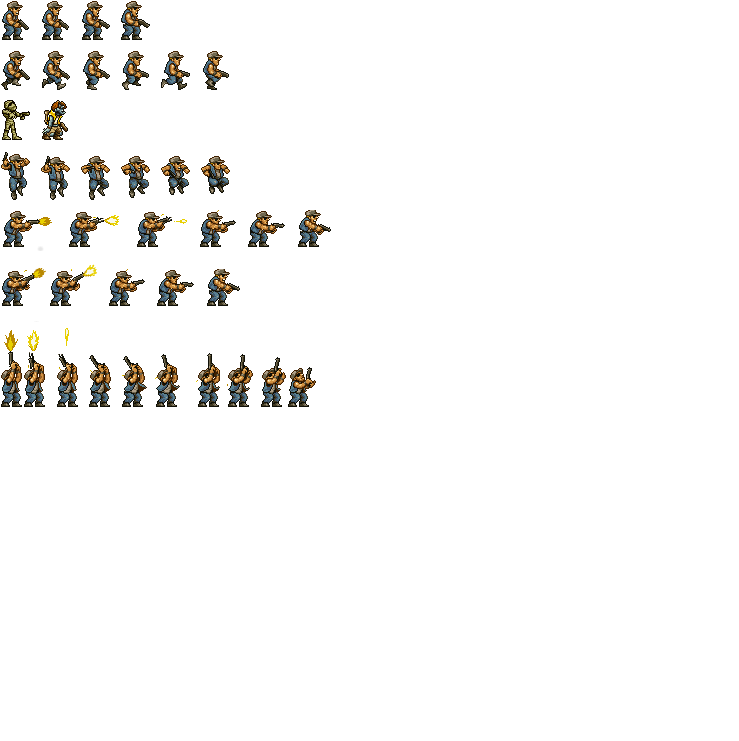
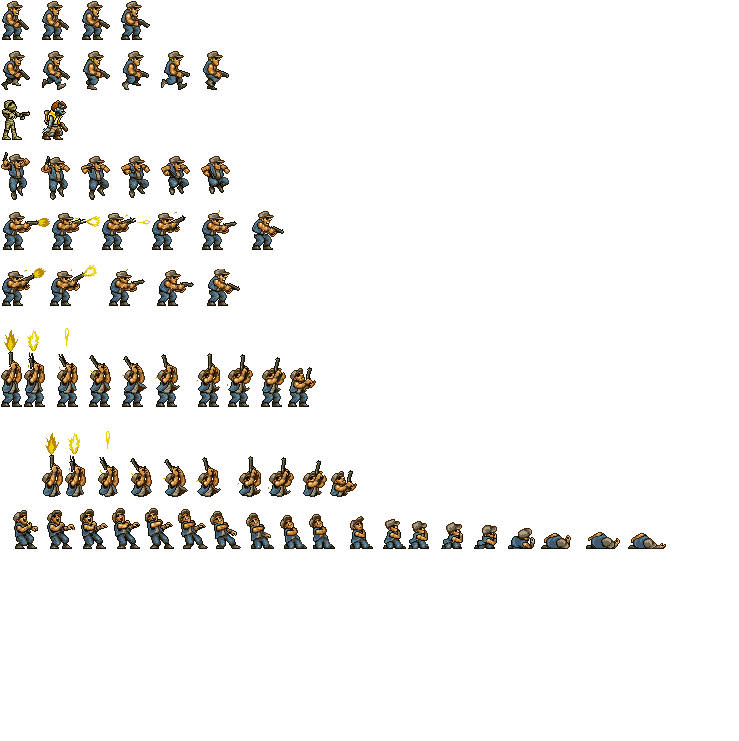
dispara el forro

Changed region(s): [[0.0, 0.5897, 0.9026, 0.7449], [0.0, 0.2794, 0.3735, 0.3414], [0.4046, 0.2794, 0.4357, 0.3414]]

diff --git a/Cliente/LTexture.cpp b/Cliente/LTexture.cpp
@@ -33,6 +33,12 @@ void LTexture::render(SDL_Renderer *window, SDL_Texture *mTexture, int cameraX, 
 
     //pasar escala x xml
 	drawingRect.w = player[spX][spY].w + escala;
+	if(player[spX][spY].w == 50){
+		drawingRect.w += 30;
+		if(flipType != SDL_FLIP_NONE){
+			drawingRect.x -= 50;
+		}
+	}
 	drawingRect.h = player[spX][spY].h + escala;
 
 	SDL_RenderCopyEx( window, mTexture, &player[spX][spY], &drawingRect, 0, NULL, flipType );
@@ -133,26 +139,24 @@ void LTexture::inicializarTexture(SDL_Renderer* window, char* text){
 	player[5][2].w=30; player[5][2].h=50;
 
 	//Disparando
-	player[6][0].x=0; player[6][0].y=208;
-	player[6][0].w=40; player[6][0].h=40;
-
-	/*
-	//Disparando
 	player[0][3].x=0; player[0][3].y=210;
 	player[0][3].w=50; player[0][3].h=40;
 
-	player[0][3].x=50; player[0][3].y=210;
-	player[0][3].w=50; player[0][3].h=40;
+	player[1][3].x=50; player[1][3].y=210;
+	player[1][3].w=50; player[1][3].h=40;
 
-	player[0][3].x=100; player[0][3].y=210;
-	player[0][3].w=50; player[0][3].h=40;
+	player[2][3].x=100; player[2][3].y=210;
+	player[2][3].w=50; player[2][3].h=40;
 
-	player[0][3].x=150; player[0][3].y=210;
-	player[0][3].w=50; player[0][3].h=40;
+	player[3][3].x=150; player[3][3].y=210;
+	player[3][3].w=50; player[3][3].h=40;
 
-	player[0][3].x=200; player[0][3].y=210;
-	player[0][3].w=50; player[0][3].h=40;
-	*/
+	player[4][3].x=200; player[4][3].y=210;
+	player[4][3].w=50; player[4][3].h=40;
+
+	player[5][3].x=250; player[5][3].y=210;
+	player[5][3].w=50; player[5][3].h=40;
+
 }
 
 void LTexture::free()

diff --git a/Servidor/DibujableServer.cpp b/Servidor/DibujableServer.cpp
@@ -14,6 +14,8 @@ DibujableServer::DibujableServer() {
 	conectar();
 	basePlataforma = 0;
 
+	tipoDeArma = 0;
+
 	flip = 'D';
 }
 
@@ -84,12 +86,29 @@ void DibujableServer::saltar(){
 }
 
 bool DibujableServer::disparar(){
-	spX = 0;
-	spY = 3;
-
-	//estaDisparando = true;
 	//jugar con el tipo de arma...
-	return true;
+	bool rta = false;
+
+	switch(tipoDeArma){
+
+	case 0:
+		if(!estaDisparando){
+			spX = 0;
+			spY = 3;
+
+			spXaux = 0;
+			spYaux = 3;
+
+			estaDisparando = true;
+			rta = true;
+		}
+		break;
+
+	default:
+		break;
+	}
+
+	return rta;
 }
 
 int DibujableServer::velocidadXJugador(){
@@ -160,17 +179,24 @@ bool DibujableServer::mover(int xCamara){
 		mVelY += 3;
 	}
 
-	if(estaDisparando){
-		spX += 1;
-		if(spX > 6) {
-			spY = 0;
-			spX = 0;
-			estaDisparando = false;
-		}
-	}
-
 	if(mVelX != 0 || mVelY != 0 || estaDisparando){
 		meMovi = true;
+	}
+
+	if(estaDisparando) {
+		spXaux += 1;
+
+		if(mVelX == 0 && mVelY == 0){
+			spX = spXaux;
+			spY = spYaux;
+		}
+
+		if(spXaux > 5) {
+			estaDisparando = false;
+			cout << "DEJE DE DISPARAR" << endl;
+			spY = 1;
+			spX = 0;
+		}
 	}
 
 	if(y <= HMAX_SALTO){

diff --git a/Servidor/DibujableServer.h b/Servidor/DibujableServer.h
@@ -25,8 +25,12 @@ public:
 	int y;
 	int spX;
 	int spY;
+	int spXaux;
+	int spYaux;
 	bool estaOnline;
 	bool estaDisparando;
+
+	int tipoDeArma;
 
 	Escenario escenario;
 

diff --git a/Cliente/LTexture.h b/Cliente/LTexture.h
@@ -13,7 +13,6 @@ class LTexture {
 public:
 	int id;
 
-	//SDL_Rect cuerpo[6][1];
 	SDL_Rect player[7][4];
 	
 	int xcord;
